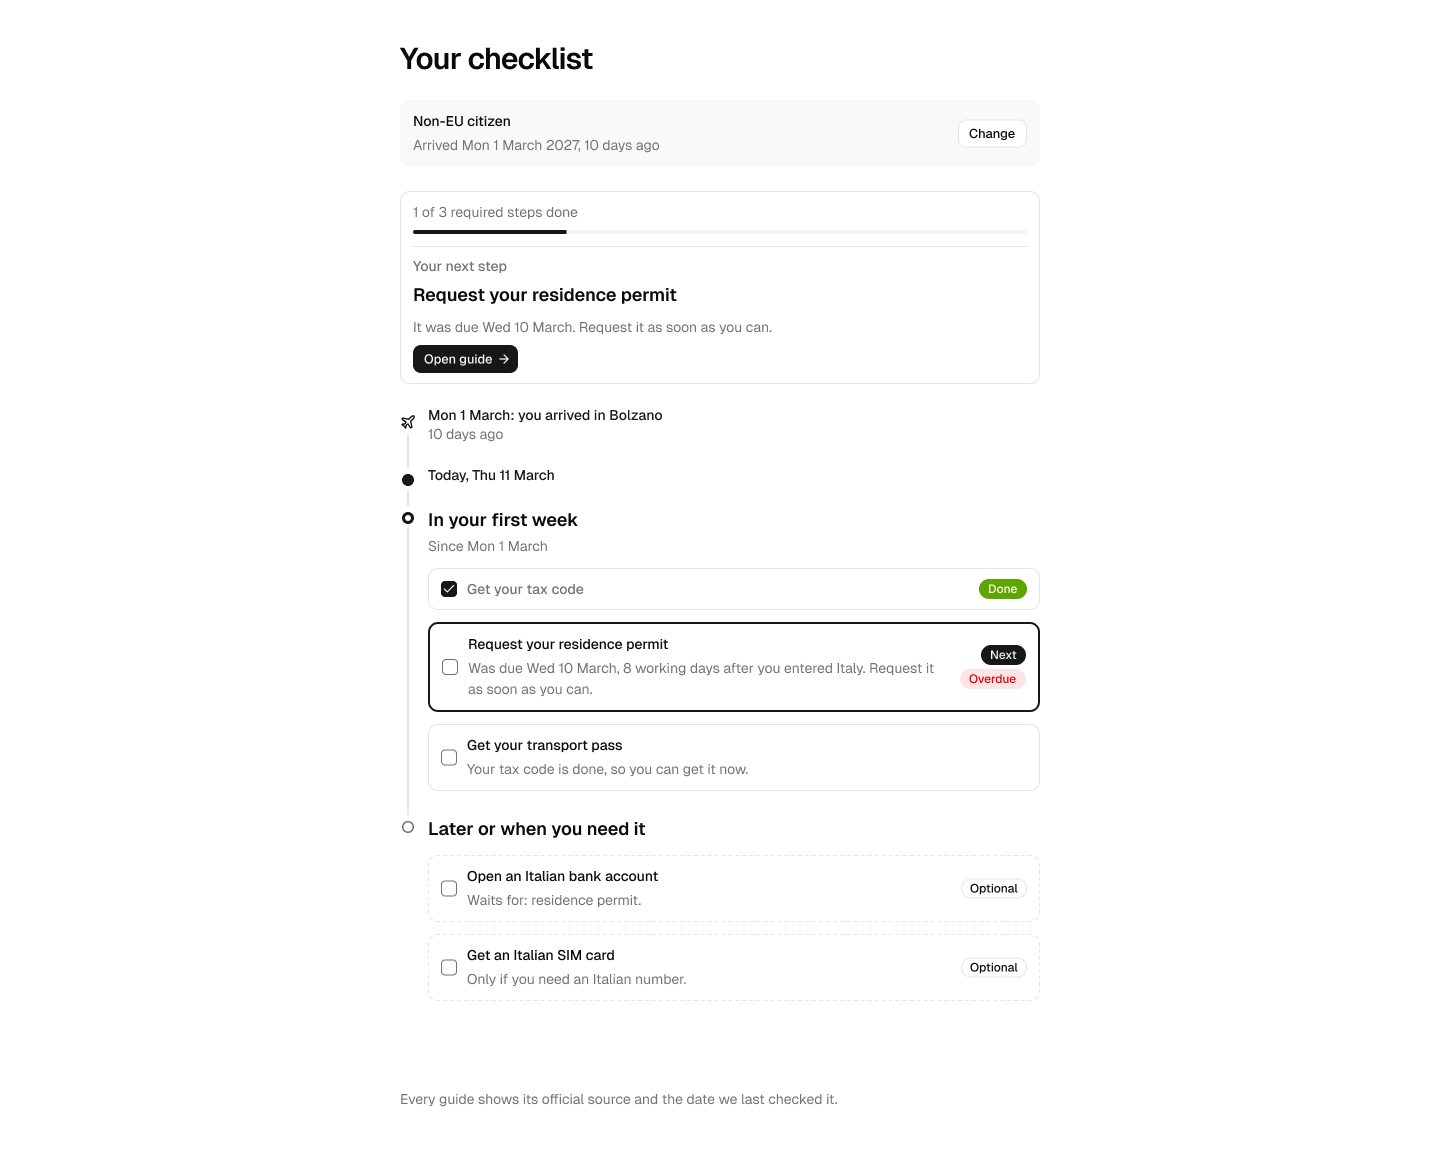
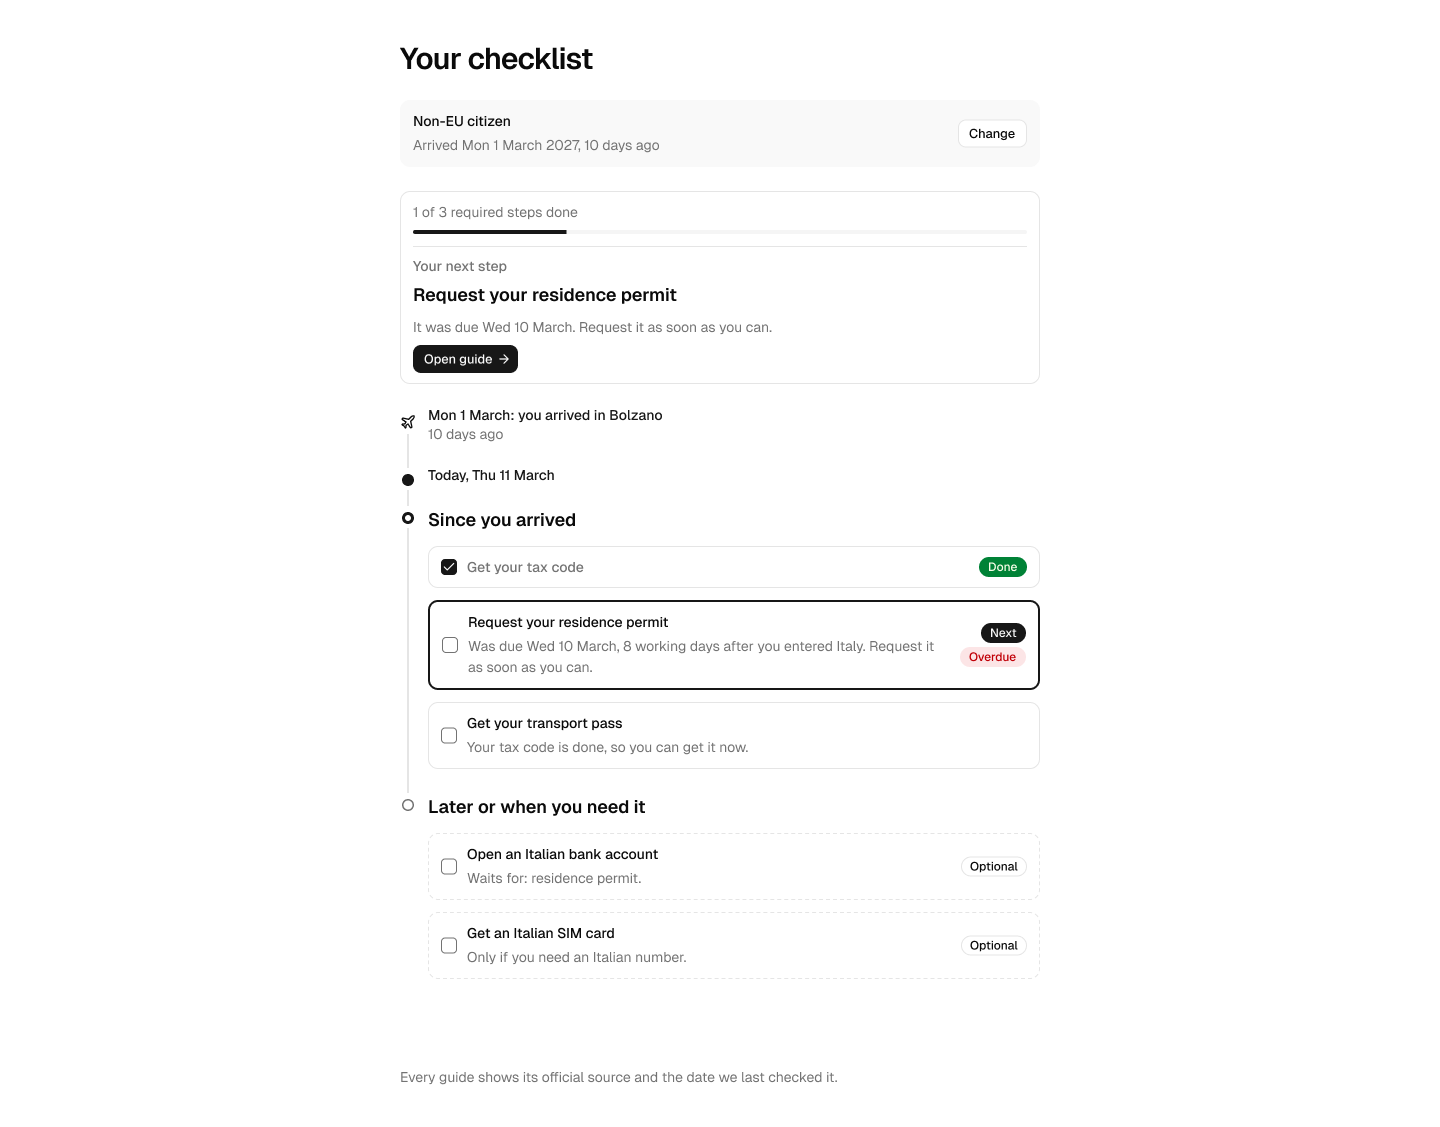
docs(design): raise the contrast of the checkbox border and status colours

diff --git a/design/README.md b/design/README.md
@@ -34,15 +34,15 @@ The example is a non-EU student arriving on Mon 1 March 2027.
 - **Marking a step done:** a checkbox in place of the state icon. Tapping the box marks the step done, tapping the row opens its guide; the badge carries the state. A done step stays in place, collapsed to one line with the "Done" badge.
 - **Progress summary:** a card at the top shows "x of 3 required steps done" with the progress bar, and the next step with a link to its guide.
 - **Guide:** "Mark as done" sits under the facts (in the side column on desktop). Once marked, a "Done" message with "Undo" takes its place.
-- **Timeline:** a line joins the phases "Before you travel", "In your first week" and "Later or when you need it", with today and the arrival day as points on it. Before the arrival date it shows the countdown; after it, the before-arrival part is gone. A deadline shows its date and the days left; a step past its deadline gets the "Overdue" badge.
+- **Timeline:** a line joins the phases "Before you travel", "In your first week" and "Later or when you need it", with today and the arrival day as points on it. Before the arrival date it shows the countdown; after it, the before-arrival part is gone, and after the first week "In your first week" becomes "Since you arrived". A deadline shows its date and the days left; a step past its deadline gets the "Overdue" badge.
 
 ## Design system
 
 - **Kit:** [spartan/ui for Figma](https://www.figma.com/community/file/1691576794328156128/spartan-ui-for-figma-a-1-1-design-kit-of-spartan-ng), a 1:1 kit of the spartan/ui Angular components. Every screen is built from its components (Button, Item, Badge, Alert, Checkbox, Field Set, Field, Radio Group, Date Picker, Progress, Card, Separator), text styles and variables, so Figma's Dev Mode shows the matching Angular code.
 - **Theme:** neutral main colour (Accent "Default"), Style "Nova", light mode. The colour palette is decided later; changing it is one variable mode.
-- **Status colours:** a deadline uses the kit's Amber palette and "Done" its Green palette, only on those badges and icons. In code this needs a small CSS class that switches the accent variables.
+- **Status colours:** the 700 shades of the kit's Tailwind palette, only on the status badges and icons, so small text on them passes WCAG AA (4.5:1): "Done" green-700 (about 5:1), "Due" amber-700 (about 5:1), "Overdue" text red-700 on its light red badge (about 5.4:1). In code: `bg-green-700`, `bg-amber-700` (already used for "Due"), `text-red-700`.
 - **Font:** Geist, the kit's font. The app loads it from the `@fontsource-variable/geist` package, so no font request goes to another server.
 - **M2B changes to the kit:** listed on the "Design system" page of the Figma file and matched in the code.
-  - **Checkbox:** the empty box has a clearer border, `muted-foreground` at 50 % instead of `input`. Figma: the "M2B/Checkbox" component. Code: `libs/ui/checkbox` (`border-muted-foreground/50`).
+  - **Checkbox:** the empty box has a darker border, `muted-foreground` at 80 % instead of `input`, about 3.2:1 against white (the outline of a control needs 3:1, WCAG 1.4.11). Figma: the "M2B/Checkbox" component. Code: `libs/ui/checkbox` (`border-muted-foreground/80`). Where it is used, the tap area around the 16 px box is at least 24 px (WCAG 2.5.8), with a wrapping label or padding.
   - **Alert with a button:** the text keeps room on the right, so it never runs under the button: 72 px for "Open" (`pe-18` in the code), more for a wider button such as "Undo".
 - **Desktop layout:** one centred column of 640 px; the intake form sits in a card of 560 px; the step states are a two-column grid; the guide moves the official source, facts and sources into a side column. Tablet widths use the same centred column.
